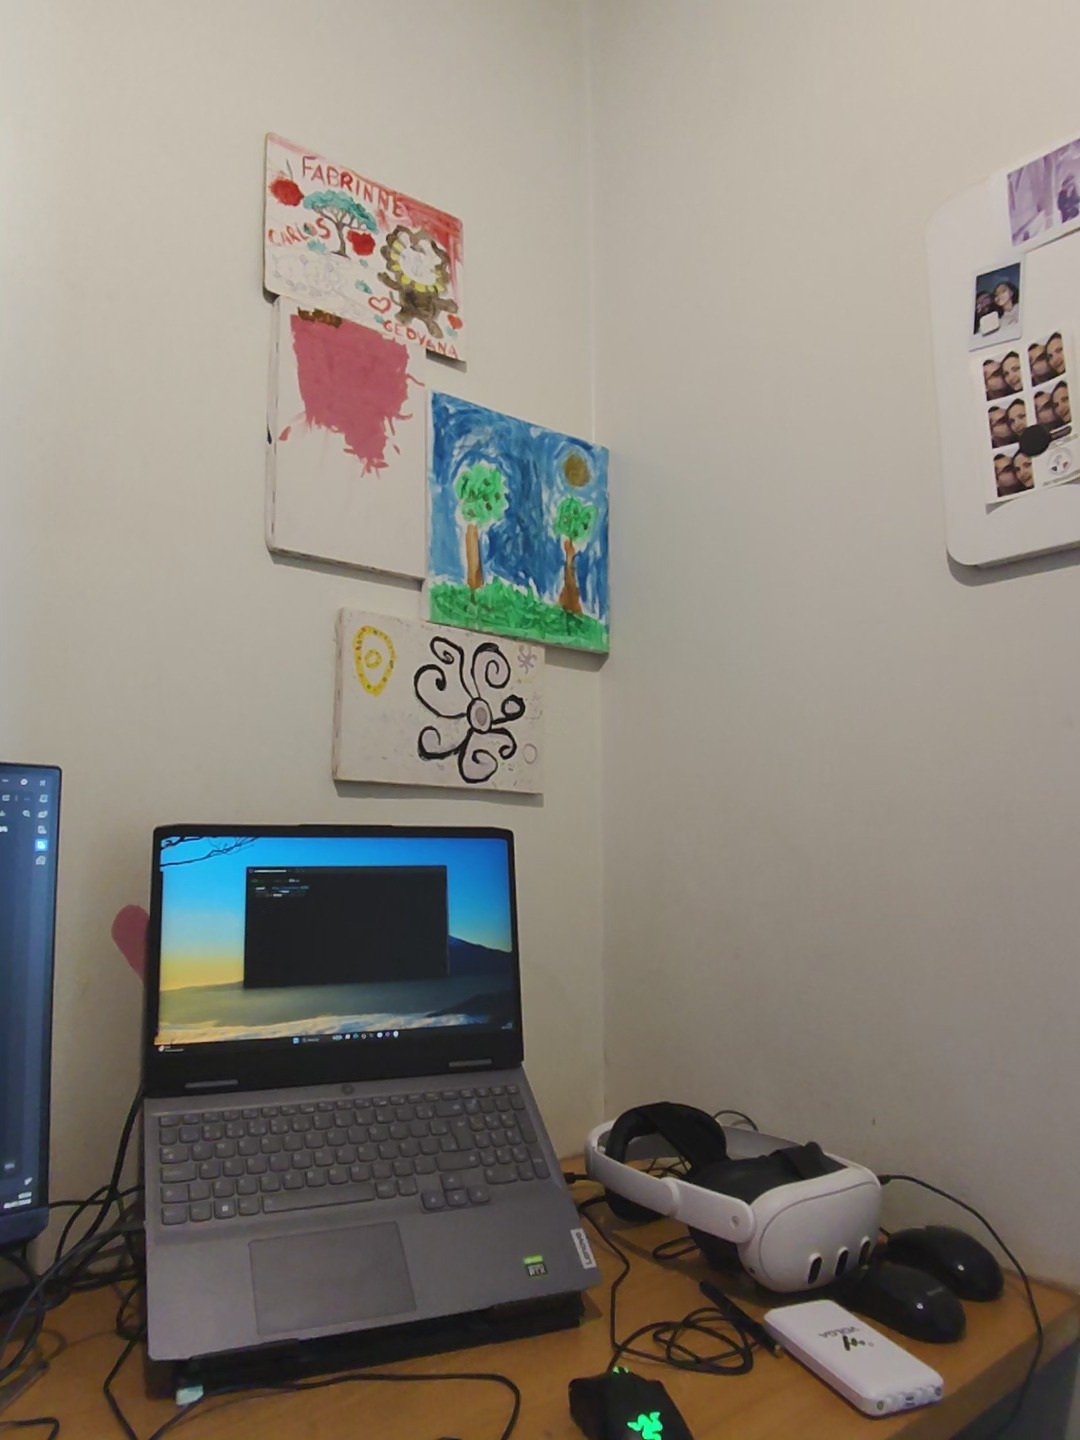
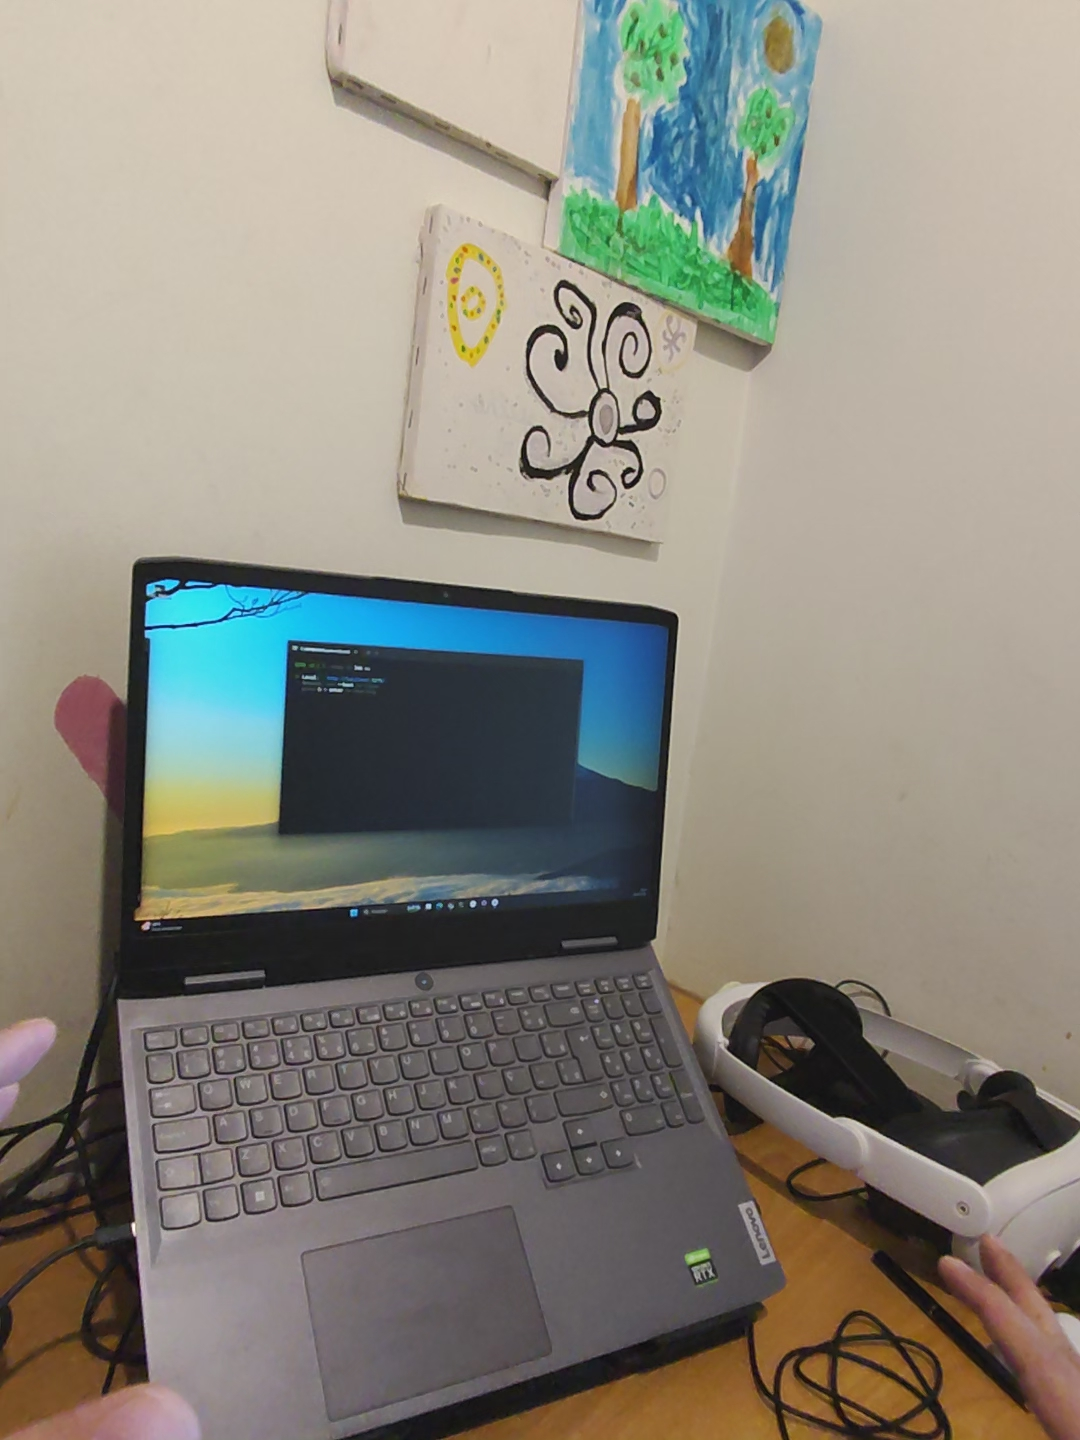
usando microfone do óculos

diff --git a/AndroidProject/app/src/main/java/com/example/myapplication/MainActivity.kt b/AndroidProject/app/src/main/java/com/example/myapplication/MainActivity.kt
@@ -28,6 +28,8 @@ import com.meta.wearable.dat.core.session.DeviceSession
 import com.meta.wearable.dat.core.types.Permission
 import com.meta.wearable.dat.core.types.PermissionStatus
 import kotlinx.coroutines.launch
+import kotlinx.coroutines.async
+import kotlinx.coroutines.Deferred
 import okhttp3.*
 import okhttp3.MediaType.Companion.toMediaTypeOrNull
 import okhttp3.RequestBody.Companion.asRequestBody
@@ -43,6 +45,7 @@ class MainActivity : AppCompatActivity() {
     private var mediaRecorder: MediaRecorder? = null
     private var audioManager: AudioManager? = null
     private var audioFilePath: String = ""
+    private var photoCaptureJob: Deferred<File?>? = null
 
     // IP do Backend 
     private val BACKEND_URL = "http://192.168.15.9:8000/upload"
@@ -188,15 +191,29 @@ class MainActivity : AppCompatActivity() {
     }
 
     private fun startRecording() {
-        binding.logText.text = "Conectando microfone do óculos..."
+        binding.logText.text = "📸 Capturando visão e conectando microfone..."
         
-        // Ativa o roteamento de áudio via Bluetooth (Headset)
+        // 1. Inicia a captura da foto imediatamente (em background)
+        photoCaptureJob = lifecycleScope.async {
+            if (stream == null) return@async null
+            val result = stream?.capturePhoto()
+            val photoData = result?.getOrNull()
+            if (photoData != null) {
+                processPhotoData(photoData)
+            } else {
+                Log.e("MainActivity", "Falha ao capturar a foto do stream")
+                null
+            }
+        }
+        
+        // 2. Ativa o roteamento de áudio via Bluetooth (Headset)
         audioManager?.startBluetoothSco()
         audioManager?.isBluetoothScoOn = true
 
         binding.btnCapture.text = "PARAR\nE ENVIAR"
         binding.btnCapture.setBackgroundColor(android.graphics.Color.RED)
         
+        // 3. Inicia a gravação de áudio
         mediaRecorder = MediaRecorder().apply {
             setAudioSource(MediaRecorder.AudioSource.MIC)
             setOutputFormat(MediaRecorder.OutputFormat.MPEG_4)
@@ -223,29 +240,18 @@ class MainActivity : AppCompatActivity() {
         binding.btnCapture.text = "INICIAR\nGRAVAÇÃO"
         binding.btnCapture.setBackgroundColor(android.graphics.Color.parseColor("#3b82f6"))
         
-        if (stream == null) {
-            binding.logText.text = "Erro: Câmera do óculos não está pronta. Criando fallback dummy."
-            val dummy = createDummyImage()
-            sendDataToBackend(dummy, File(audioFilePath))
-            return
-        }
-
-        binding.logText.text = "📸 Tirando foto pelo Ray-Ban Meta..."
+        binding.logText.text = "Processando arquivo e enviando ao servidor..."
         
         lifecycleScope.launch {
-            stream?.capturePhoto()
-                ?.onSuccess { photoData ->
-                    binding.logText.text = "Foto capturada! Processando e enviando..."
-                    val photoFile = processPhotoData(photoData)
-                    if (photoFile != null) {
-                        sendDataToBackend(photoFile, File(audioFilePath))
-                    } else {
-                        binding.logText.text = "Falha ao processar arquivo da foto."
-                    }
-                }
-                ?.onFailure { error, _ ->
-                    binding.logText.text = "Erro ao tirar foto: ${error.description}"
-                }
+            // Aguarda a foto terminar de processar (caso você tenha parado a gravação muito rápido)
+            val photoFile = photoCaptureJob?.await()
+            
+            if (photoFile != null) {
+                sendDataToBackend(photoFile, File(audioFilePath))
+            } else {
+                binding.logText.text = "Erro: Câmera falhou. Usando dummy fallback."
+                sendDataToBackend(createDummyImage(), File(audioFilePath))
+            }
         }
     }
 

diff --git a/backend/main.py b/backend/main.py
@@ -1,6 +1,7 @@
 import os
 import shutil
 import requests
+import time
 from fastapi import FastAPI, UploadFile, File, Form, Depends, HTTPException
 from fastapi.middleware.cors import CORSMiddleware
 from sqlalchemy.orm import Session
@@ -76,14 +77,16 @@ async def upload_data(
     audio: UploadFile = File(...),
     db: Session = Depends(get_db)
 ):
+    timestamp = int(time.time() * 1000)
+    
     # 1. Salvar imagem
-    image_filename = f"{glasses_id}_{image.filename}"
+    image_filename = f"{glasses_id}_{timestamp}_{image.filename}"
     image_path = os.path.join(UPLOAD_DIR, image_filename)
     with open(image_path, "wb") as buffer:
         shutil.copyfileobj(image.file, buffer)
 
     # 2. Salvar áudio temporariamente
-    audio_filename = f"{glasses_id}_{audio.filename}"
+    audio_filename = f"{glasses_id}_{timestamp}_{audio.filename}"
     audio_path = os.path.join(UPLOAD_DIR, audio_filename)
     with open(audio_path, "wb") as buffer:
         shutil.copyfileobj(audio.file, buffer)
